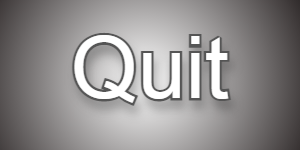
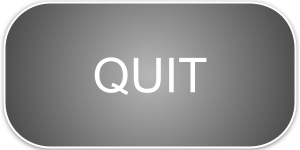
Button sprites

diff --git a/spaceInvaders/menuScene.cpp b/spaceInvaders/menuScene.cpp
@@ -29,7 +29,7 @@ menuScene::menuScene()
 	}
 	m_texBackground = new sf::Texture();
 	m_sprBackground = new sf::Sprite();
-	m_imgLogo = new uiImage(sf::Vector2f(400, 200), "Assets/Menu/TempLogo.png", false);
+	m_imgLogo = new uiImage(sf::Vector2f(400, 200), "Assets/Start.png", false);
 	m_delayTimer = new timer(0.3f, 0.0f);
 	m_bigDelayTimer = new timer(1.0f, 0.0f);
 }
@@ -93,16 +93,10 @@ void menuScene::Initialise(sf::RenderWindow& _window)
 	// Create Buttons
 	for (int i = 0; i < 2; i++)
 	{
-		m_vButtons.push_back(new button(m_v2Offset.x, 500 + m_v2Offset.y * i, i));
-		if (i == 0)
-		{
-			m_vButtons[i]->AssignImage("Assets/Start.png");
-			m_vButtons[i]->setButtonText("Start", 50);
-		}
-		else if (i == 1)
-		{
-			m_vButtons[i]->setButtonText("Quit", 50);
-		}
+		if(i == 0)
+			m_vButtons.push_back(new button(m_v2Offset.x, 500 + m_v2Offset.y * i, i, "Assets/Start"));
+		else if(i == 1)
+			m_vButtons.push_back(new button(m_v2Offset.x, 500 + m_v2Offset.y * i, i, "Assets/Quit"));
 	}
 
 
@@ -204,9 +198,9 @@ void menuScene::DrawUI(sf::RenderWindow& _window)
 	// Draw UI elements
 	for (int i = 0; i < m_vButtons.size(); i++)
 	{
-		_window.draw(*m_vButtons[i]->GetRect());
-		_window.draw(*m_vButtons[i]->GetButtonText());
-		
+		//_window.draw(*m_vButtons[i]->GetRect());
+		//_window.draw(*m_vButtons[i]->GetButtonText());
+		m_vButtons[i]->Draw(_window);
 		/*if (m_vButtons[i]->m_buttonSprite != nullptr)
 			m_vButtons[i]->m_buttonSprite->Draw(_window);*/
 
@@ -235,7 +229,7 @@ void menuScene::SelectionController()
 		{
 			m_vButtons[j]->SetColor(sf::Color::White);
 		}
-		m_vButtons[m_controllerSelection]->SetColor(sf::Color::Red);
+		m_vButtons[m_controllerSelection]->SetColor(sf::Color(128,128,128));
 
 
 
@@ -263,7 +257,7 @@ void menuScene::SelectionController()
 		{
 			if (m_wasPressed[k])
 			{
-				m_vButtons[m_controllerSelection]->SetColor(sf::Color::Blue);
+				m_vButtons[m_controllerSelection]->SetColor(sf::Color::Green);
 				break;;
 			}
 		}

diff --git a/spaceInvaders/button.cpp b/spaceInvaders/button.cpp
@@ -1,7 +1,7 @@
 #include "button.h"
 
 
-button::button()
+button::button():uiImage(sf::Vector2f(0,0), "", false)
 {
 	if (!m_arial.loadFromFile("Assets/arial.ttf"))
 	{
@@ -21,12 +21,7 @@ button::button()
 	
 }
 
-
-
-
-
-// Weight is how we determine which button is associated with what.
-button::button(float x_pos, float y_pos, int _weight)
+button::button(float x_pos, float y_pos, int _weight, std::string _path):uiImage(sf::Vector2f(x_pos, y_pos), _path + ".png", false)
 {
 	if (!m_arial.loadFromFile("Assets/arial.ttf"))
 	{
@@ -51,7 +46,11 @@ button::button(float x_pos, float y_pos, int _weight)
 	m_TempRect->setPosition(x_pos, y_pos);
 	m_TempRect->setOrigin(m_v2ButtonSize.x * 0.5f, m_v2ButtonSize.y * 0.5f);
 	m_iWeight = _weight;
+
 }
+
+
+
 
 
 button::~button()
@@ -75,11 +74,6 @@ button::~button()
 	}
 }
 
-void button::Update(float _dT)
-{
-	if(m_buttonSprite != nullptr)
-		m_buttonSprite->Update(_dT);
-}
 
 void button::isMouseHere(sf::RenderWindow& window)
 {
@@ -102,27 +96,25 @@ void button::isMouseHere(sf::RenderWindow& window)
 		(fMouseY < fButtonHeightY && fMouseY > fButtonPosY))
 	{
 		m_bIsHovering = true;
-		m_TempRect->setFillColor(sf::Color::Red);
+		GetSprite()->setColor(sf::Color(128, 128, 128));
 
 		if (sf::Mouse::isButtonPressed(sf::Mouse::Left))
 		{
-			isSelected(true);
+			GetSprite()->setColor(sf::Color::Green);
 			m_TempRect->setFillColor(sf::Color::Blue);
 		}
 		
 		else if (m_bIsSelected == true)
 		{
-			
-			m_TempRect->setFillColor(sf::Color::Blue);
+			GetSprite()->setColor(sf::Color::Green);
 			m_bIsClicked = true;
-
 		}
 	}
 	else
 	{
 		m_bIsHovering = false;
 		isSelected(false);
-		m_TempRect->setFillColor(sf::Color::White);
+		GetSprite()->setColor(sf::Color::White);
 	}
 
 
@@ -161,7 +153,8 @@ bool button::isHovering()
 
 void button::SetColor(const sf::Color& _color)
 {
-	m_TempRect->setFillColor(_color);
+	GetSprite()->setColor(_color);
+
 }
 
 sf::RectangleShape* button::GetRect()

diff --git a/spaceInvaders/lobbyScene.cpp b/spaceInvaders/lobbyScene.cpp
@@ -93,15 +93,19 @@ void lobbyScene::Initialise(sf::RenderWindow& _window)
 	// Create Buttons
 	for (int i = 0; i < 2; i++)
 	{
-		m_vButtons.push_back(new button(550 + m_v2Offset.x, 700 + m_v2Offset.y * i, i));
+		
 		if (i == 0)
 		{
-			m_vButtons[i]->AssignImage("Assets/Start.png");
-			m_vButtons[i]->setButtonText("Start Game!", 50);
+			m_vButtons.push_back(new button(550 + m_v2Offset.x, 700 + m_v2Offset.y * i, i, "Assets/Start"));
 		}
 		else if (i == 1)
 		{
+			m_vButtons.push_back(new button(550 + m_v2Offset.x, 700 + m_v2Offset.y * i, i, "Assets/MainMenu"));
 			m_vButtons[i]->setButtonText("Main Menu", 45);
+		}
+		else
+		{
+			m_vButtons.push_back(new button(550 + m_v2Offset.x, 700 + m_v2Offset.y * i, i, ""));
 		}
 	}
 }
@@ -130,6 +134,7 @@ void lobbyScene::MainLoop(sf::RenderWindow& _window)
 }
 
 
+
 /***********************
 * Update: Updates objects in the game scene.
 * @author: William de Beer
@@ -137,6 +142,15 @@ void lobbyScene::MainLoop(sf::RenderWindow& _window)
 ********************/
 void lobbyScene::Update(sf::RenderWindow& _window, float _dT)
 {
+	for(int i =0;i<32;i++)
+	{
+		inputManager::GetControllerButton(i, i);
+	}
+	for(auto& _button:m_vButtons)
+	{
+		_button->Update(_dT);
+	}
+	
 	for (int i = 0; i < 4; i++)
 	{
 		m_playerStatus[i].Update(_dT);
@@ -300,12 +314,7 @@ void lobbyScene::DrawUI(sf::RenderWindow& _window)
 	for (int i = 0; i < m_vButtons.size(); i++)
 	{
 
-		_window.draw(*m_vButtons[i]->GetRect());
-		_window.draw(*m_vButtons[i]->GetButtonText());
-
-
-		if (m_vButtons[i]->m_buttonSprite = nullptr)
-			m_vButtons[i]->m_buttonSprite->Draw(_window);
-
+		m_vButtons[i]->Draw(_window);
+		
 	}
 }

diff --git a/spaceInvaders/lobbyScene.h b/spaceInvaders/lobbyScene.h
@@ -32,14 +32,14 @@ public:
 	virtual ~lobbyScene();
 	virtual void Initialise(sf::RenderWindow& _window);
 	virtual void MainLoop(sf::RenderWindow& _window);
+	virtual void DrawUI(sf::RenderWindow& _window);
 private:
 
 	gameObject m_playerStatus[4];
 	virtual void Update(sf::RenderWindow& _window, float _dT);
 	virtual void DrawBackground(sf::RenderWindow& _window);
 	virtual void DrawObjects(sf::RenderWindow& _window);
-	virtual void DrawUI(sf::RenderWindow& _window);
-
+	
 	bool m_hasJoined[4];
 	int m_numPlayers = 0;
 	bool m_canStart;

diff --git a/spaceInvaders/button.h b/spaceInvaders/button.h
@@ -6,14 +6,13 @@
 #include <iostream>
 
 
-class button
+class button : public uiImage
 {
 	public:
 		button();
 		
-		button(float x_pos, float y_pos, int _weight);
+		button(float x_pos, float y_pos, int _weight, std::string _path);
 		virtual ~button();
-		void Update(float _dT);
 
 		// Check If the Mouse is hovering over the Button
 		void isMouseHere(sf::RenderWindow& window);

diff --git a/spaceInvaders/battery.cpp b/spaceInvaders/battery.cpp
@@ -46,7 +46,7 @@ timer* battery::GetDestroyTimer()
 //Assigns Battery type
 battery::battery(int ch, sf::Vector2f _position)
 {
-	m_destroyTimer = new timer(20.0f, 0.0f);
+	m_destroyTimer = new timer(10.0f, 0.0f);
 
 	switch (ch)
 	{
